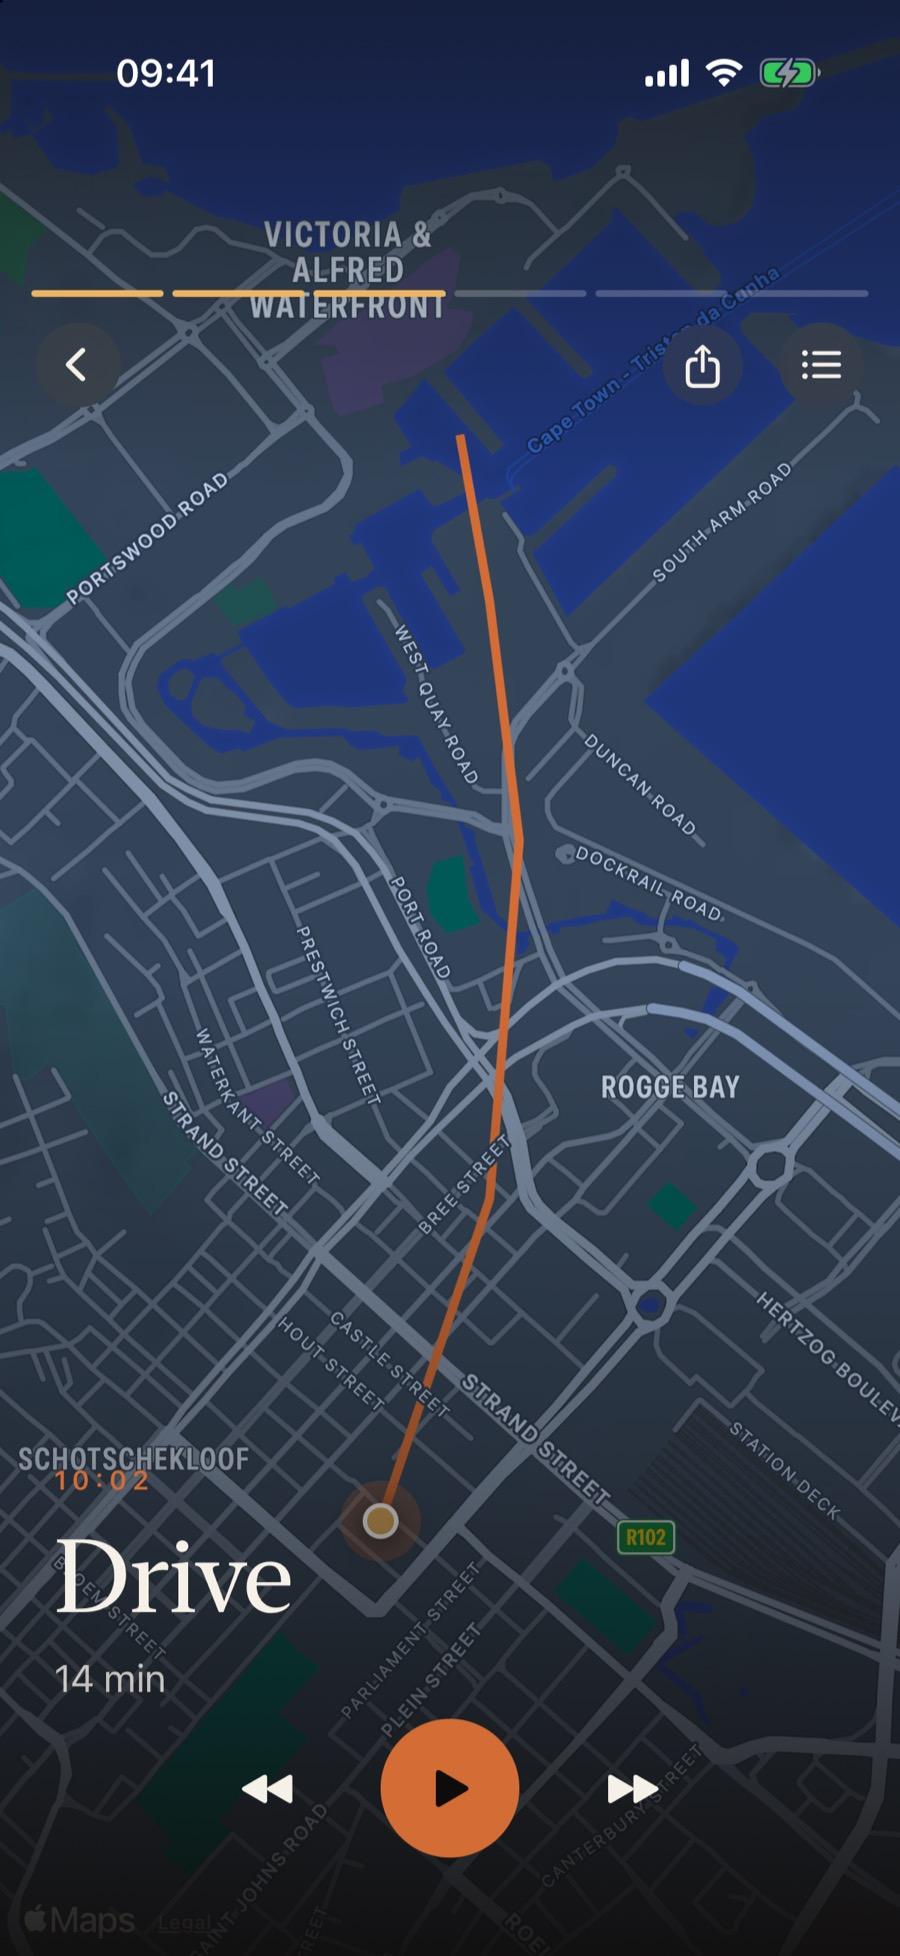
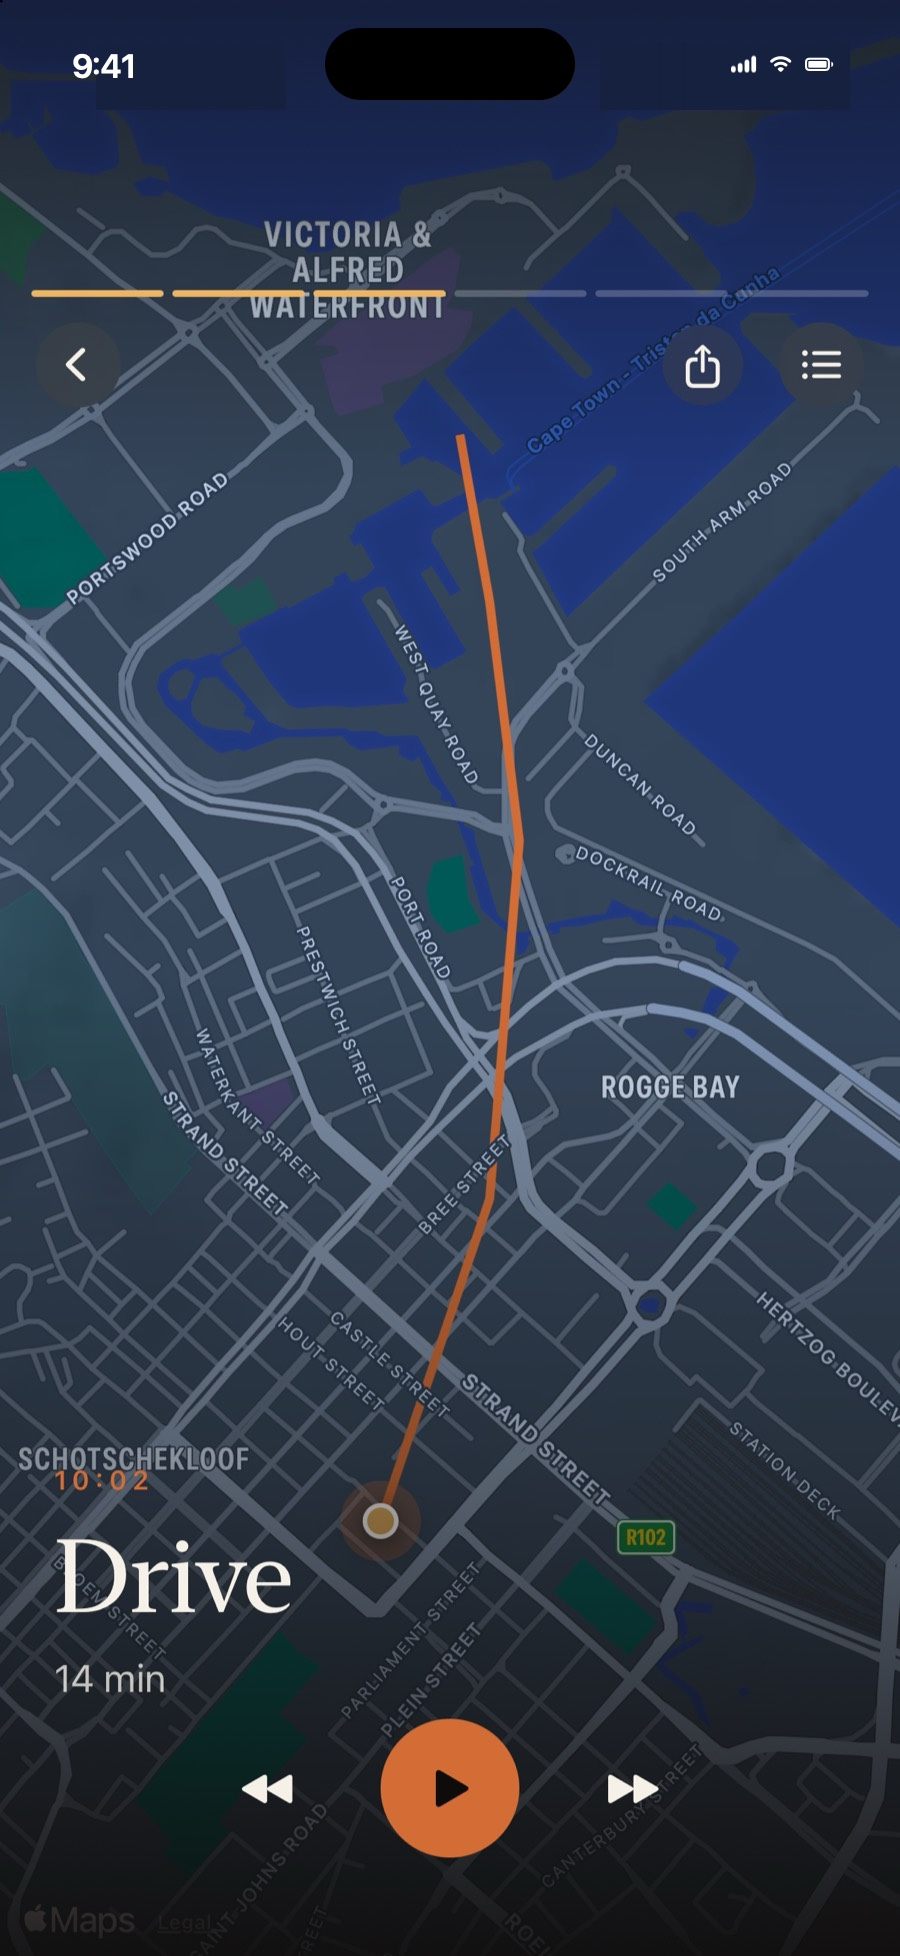
Match the phone screenshots and frames on the launch page.

Changed region(s): [[0.3422, 0.0, 0.6533, 0.0624], [0.7156, 0.0312, 0.9333, 0.0624], [0.0933, 0.0312, 0.2489, 0.0624]]

diff --git a/index.html b/index.html
@@ -89,27 +89,24 @@
     .stage {
       display: grid;
       grid-template-columns: repeat(3, minmax(0, 1fr));
-      gap: 28px;
+      gap: 26px;
       align-items: start;
       width: 100%;
       min-width: 0;
-      padding: 72px 0 8px;
+      padding: 64px 0 4px;
     }
     figure { margin: 0; min-width: 0; max-width: 100%; }
-    figure:nth-child(odd) { margin-top: 48px; }
     .phone {
       min-width: 0;
       max-width: 100%;
       contain: inline-size;
-      padding: 8px;
-      border-radius: 40px;
-      background:
-        linear-gradient(165deg, rgba(246, 241, 232, 0.28), transparent 26%),
-        linear-gradient(180deg, #3c332b, #141210 46%, #090807);
+      padding: 7px;
+      border-radius: 18.4% / 8.6%;
+      background: #141210;
       box-shadow:
-        inset 0 0 0 1px rgba(246, 241, 232, 0.16),
-        inset 0 1px 0 rgba(246, 241, 232, 0.22),
-        0 24px 50px rgba(0, 0, 0, 0.38);
+        inset 0 0 0 1px rgba(246, 241, 232, 0.18),
+        inset 0 1px 0 rgba(246, 241, 232, 0.32),
+        0 22px 44px rgba(0, 0, 0, 0.38);
       overflow: hidden;
     }
     .phone img {
@@ -117,7 +114,7 @@
       width: 100%;
       max-width: 100%;
       height: auto;
-      border-radius: 32px;
+      border-radius: 16.6% / 7.6%;
     }
     figcaption {
       margin-top: 16px;
@@ -155,7 +152,6 @@
         gap: 40px;
         padding-top: 48px;
       }
-      figure:nth-child(odd) { margin-top: 0; }
       header .soon { display: none; }
       .soon-mobile { display: block; }
       footer { flex-direction: column; }
